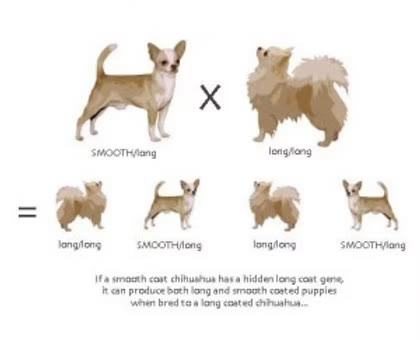
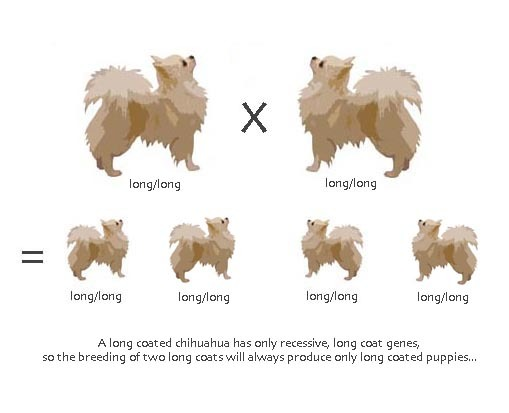
Genetica: nuovi schemi sulla genetica del pelo
Claude-Session: https://claude.ai/code/session_0142NhdYpzy8Fpqgk5pyevBt

diff --git a/genetica.html b/genetica.html
@@ -84,9 +84,9 @@
       <p>Lo standard completo in italiano è pubblicato dall'ENCI: <a href="https://www.enci.it/media/2483/218.pdf" target="_blank" rel="noopener">Standard FCI n. 218 – Chihuahua</a>.</p>
     </div>
     <div class="rotazione" data-rotazione aria-label="Schemi di genetica del pelo e della taglia">
-      <figure class="attiva"><img src="foto/genetica-schema-1.jpg" alt="Schema: incrocio tra Chihuahua a pelo liscio che porta il gene del pelo lungo e uno a pelo lungo: cuccioli sia a pelo lungo sia a pelo liscio" loading="lazy"></figure>
-      <figure><img src="foto/genetica-schema-2.jpg" alt="Schema: due Chihuahua di taglia media possono avere cuccioli di taglie molto diverse" loading="lazy"></figure>
-      <figure><img src="foto/genetica-schema-3.jpg" alt="Schema: due Chihuahua a pelo lungo hanno sempre cuccioli a pelo lungo" loading="lazy"></figure>
+      <figure class="attiva"><img src="foto/genetica-schema-1.jpg" alt="Schema: due Chihuahua a pelo lungo (lungo/lungo) hanno sempre cuccioli a pelo lungo" loading="lazy"></figure>
+      <figure><img src="foto/genetica-schema-2.jpg" alt="Schema: due Chihuahua a pelo liscio che portano il gene del pelo lungo (liscio/lungo) possono avere sia cuccioli a pelo liscio sia a pelo lungo" loading="lazy"></figure>
+      <figure><img src="foto/genetica-schema-3.jpg" alt="Schema: un Chihuahua a pelo liscio che porta il gene del pelo lungo, incrociato con uno a pelo lungo, può avere cuccioli a pelo lungo e a pelo liscio" loading="lazy"></figure>
       <div class="punti-rot" role="group" aria-label="Scegli lo schema"><button type="button" class="attivo" aria-label="Schema 1"></button><button type="button" aria-label="Schema 2"></button><button type="button" aria-label="Schema 3"></button></div>
     </div>
   </div>

diff --git a/assets/style.css b/assets/style.css
@@ -316,7 +316,7 @@ footer.piede .fine{border-top:0;padding-top:0;margin:0;text-align:center;font-si
 .didascalia{text-align:center;font-style:italic;font-size:.9rem;opacity:.8;margin-top:.6rem}
 .cane .credito{font-size:.75rem;font-style:italic;color:var(--muted);text-align:center;margin:.35rem .8rem 0}
 [data-copertina] .petalo{aspect-ratio:.92}
-.rotazione{position:relative;aspect-ratio:420/340;background:#fff;border-radius:.8rem;overflow:hidden;box-shadow:0 8px 24px -12px rgba(60,20,40,.35)}
+.rotazione{position:relative;aspect-ratio:510/400;background:#fff;border-radius:.8rem;overflow:hidden;box-shadow:0 8px 24px -12px rgba(60,20,40,.35)}
 .rotazione figure{position:absolute;inset:0;margin:0;opacity:0;transition:opacity .8s ease;pointer-events:none}
 .rotazione figure.attiva{opacity:1;pointer-events:auto}
 .rotazione img{width:100%;height:100%;object-fit:contain;display:block}
